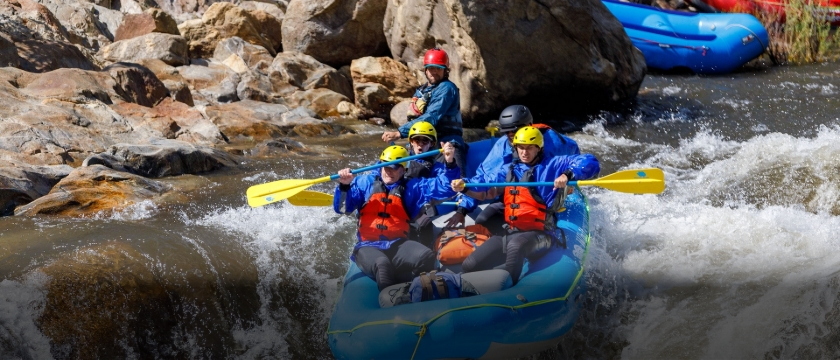
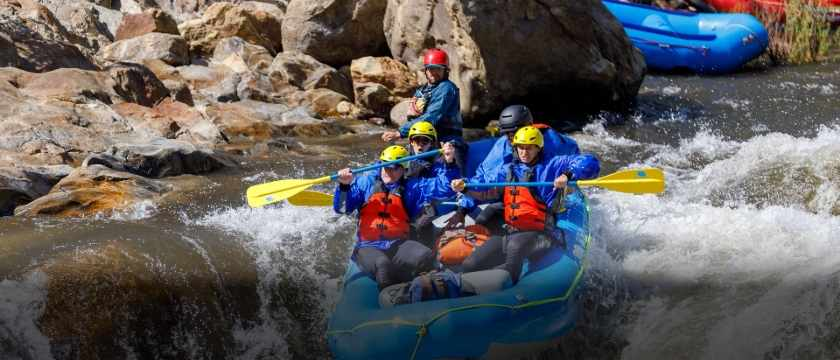
W06 Project: Rafting Site – Home and Trips Pages - v1

diff --git a/wwr/styles/rafting.css b/wwr/styles/rafting.css
@@ -381,7 +381,7 @@ p {
     padding: 0px;
     width: 100%;
 }
- 
+
 .hero-home-action .link-button {
     margin: 0px 32px;
     width: 190px;
@@ -408,7 +408,8 @@ p {
     margin: 0px;
 }
 
-.showcase h2, h3 {
+.showcase h2,
+h3 {
     font-weight: bold;
     margin: 4px 0px;
     padding: 0px;
@@ -481,7 +482,6 @@ p {
     padding: 0px;
 }
 
-
 /*
     TRIPS PAGE
 */
@@ -530,6 +530,7 @@ p {
 .trips-header {
     padding: 0px 16px;
     text-align: center;
+    margin: 0px;
 }
 
 /* 
@@ -540,10 +541,9 @@ p {
 
 .trips-table-wrapper {
     overflow-x: auto;
-    border: 2px solid #D9CDBA;
+    border: 2px solid var(--accent3-color);
     background: #FFFFFF;
 }
-
 
 /* Table */
 
@@ -553,7 +553,6 @@ p {
 
     font-size: 15px;
 }
-
 
 /* Header */
 
@@ -573,7 +572,6 @@ p {
     letter-spacing: 0.8px;
     text-transform: uppercase;
 }
-
 
 /* Cells */
 
@@ -597,7 +595,6 @@ p {
     background: #F5EFE4;
 }
 
-
 /* First column */
 
 .trips-table td:first-child {
@@ -616,5 +613,3 @@ p {
     color: #806F58;
     font-size: 13px;
 }
-
-
